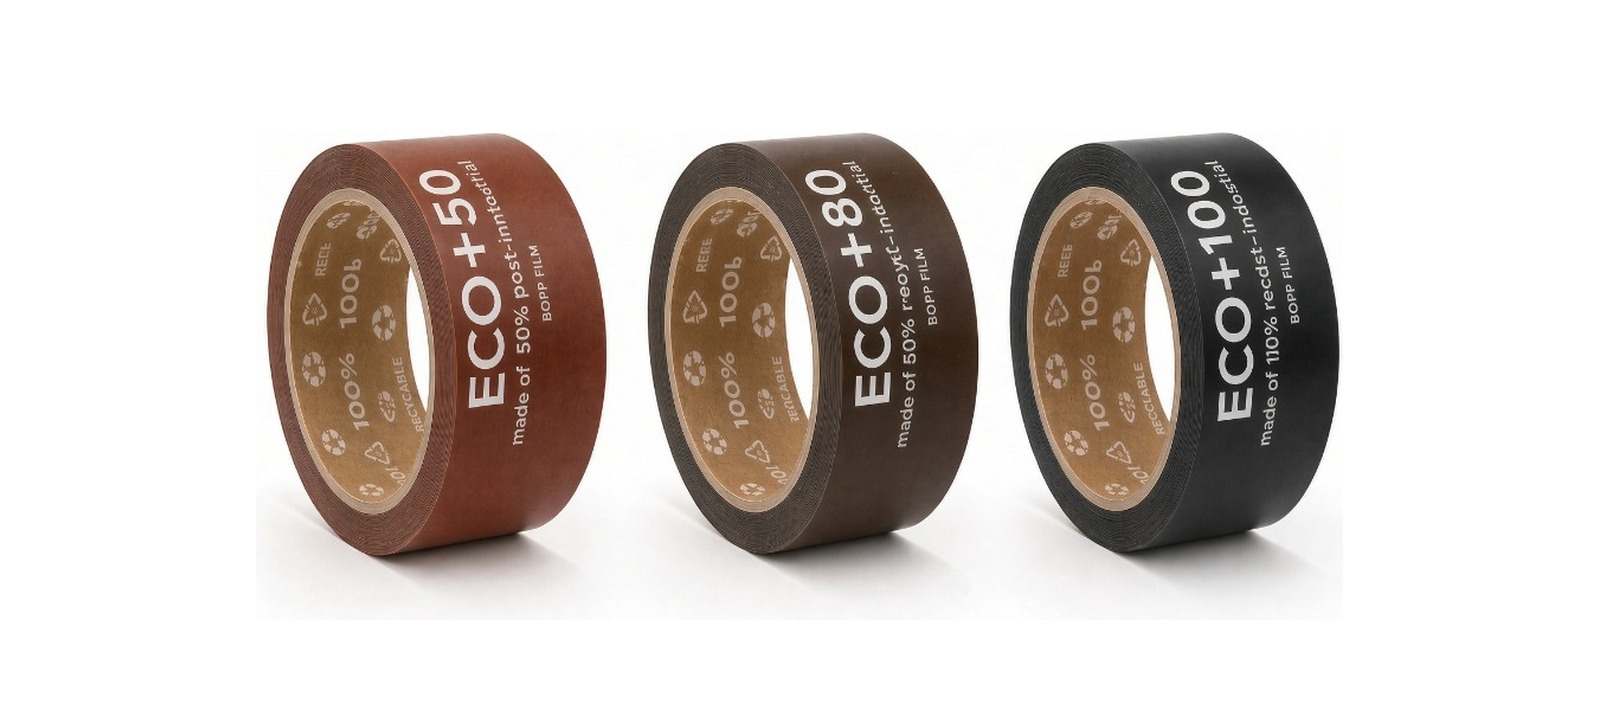
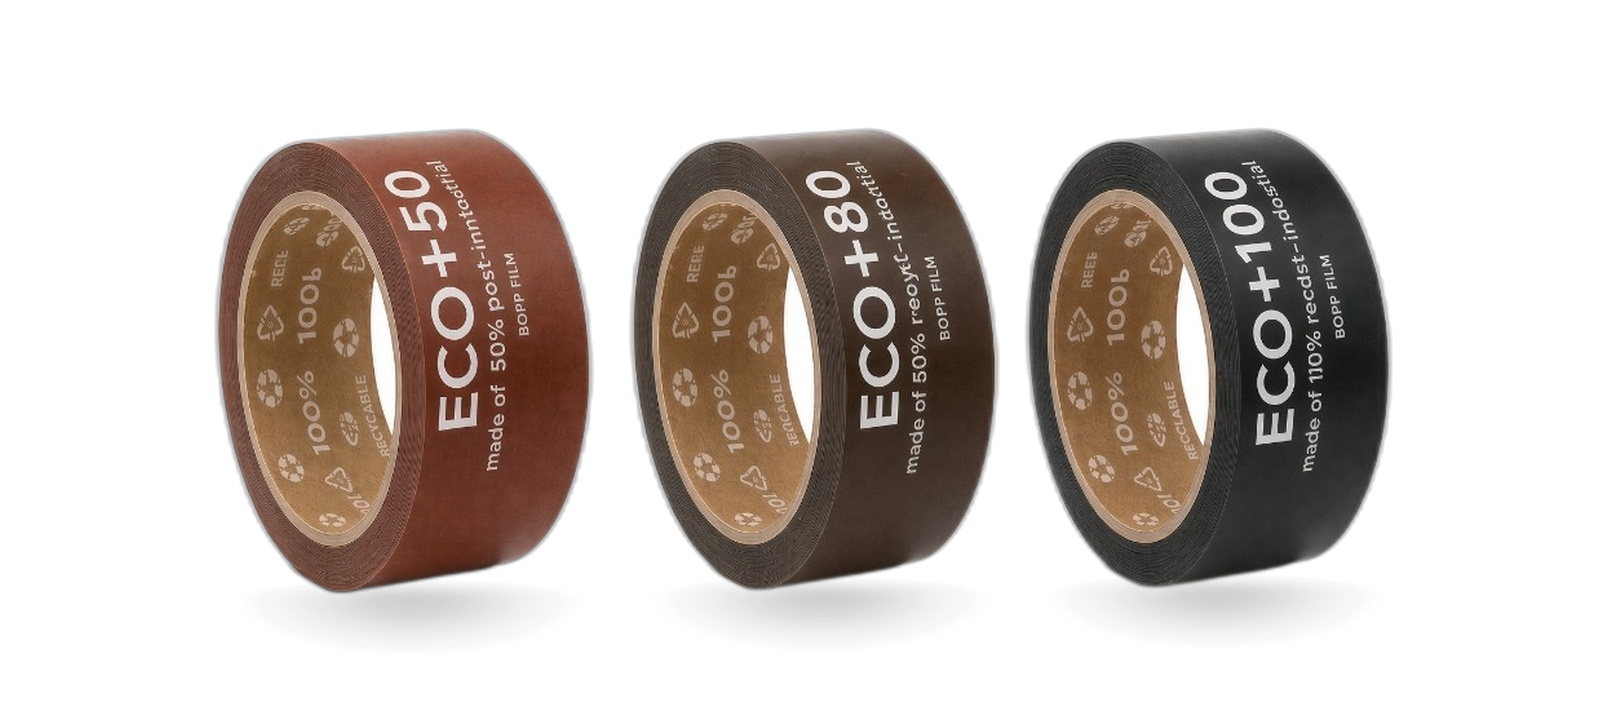
Opravit ECO+ fotku: čisté stíny a sjednocení s GLUE+/TACK+.

Changed region(s): [[0.125, 0.1528, 0.875, 0.8861]]

diff --git a/index.html b/index.html
@@ -430,7 +430,7 @@
 
         <article class="group glass glass--card relative flex flex-col overflow-hidden rounded-3xl transition-all duration-300">
             <div class="relative h-52 overflow-hidden bg-emerald-50 sm:h-56">
-                <img src="/images/benefit-eco-plus.jpg?v=22" alt="Udržitelné pásky ECO+ 50, ECO+ 80 a ECO+ 100 s potiskem" class="h-full w-full object-cover object-center" loading="lazy" width="800" height="450">
+                <img src="/images/benefit-eco-plus.jpg?v=26" alt="Udržitelné pásky ECO+ 50, ECO+ 80 a ECO+ 100 s potiskem" class="h-full w-full object-cover object-[center_40%]" loading="lazy" width="800" height="450">
                 <div class="pointer-events-none absolute inset-0 bg-gradient-to-t from-white/20 via-transparent to-transparent"></div>
             </div>
             <div class="flex flex-1 flex-col px-8 pb-10 pt-6">
